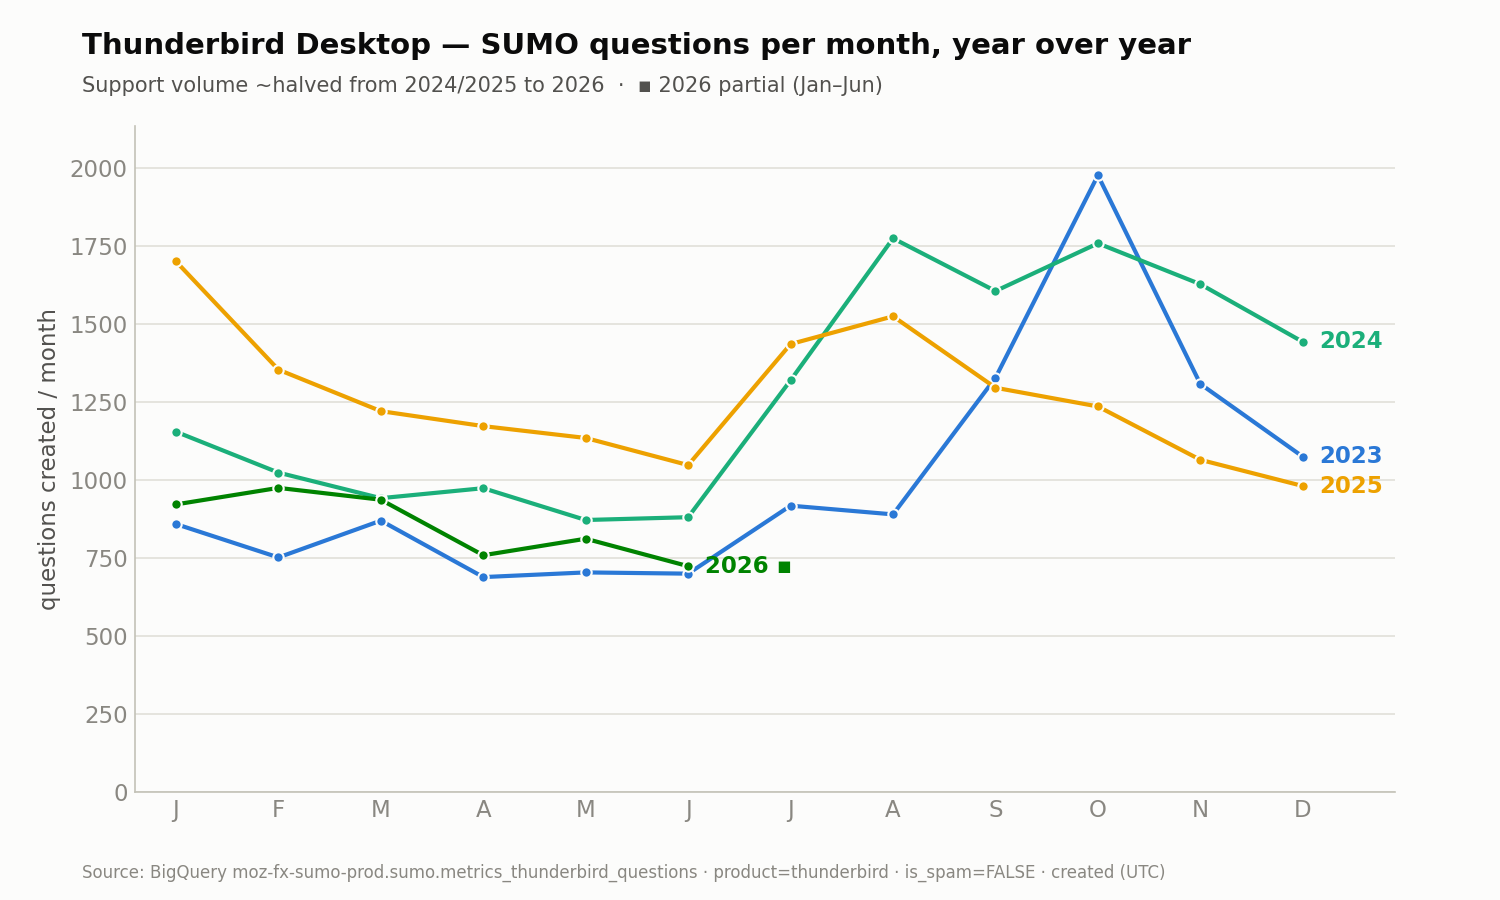
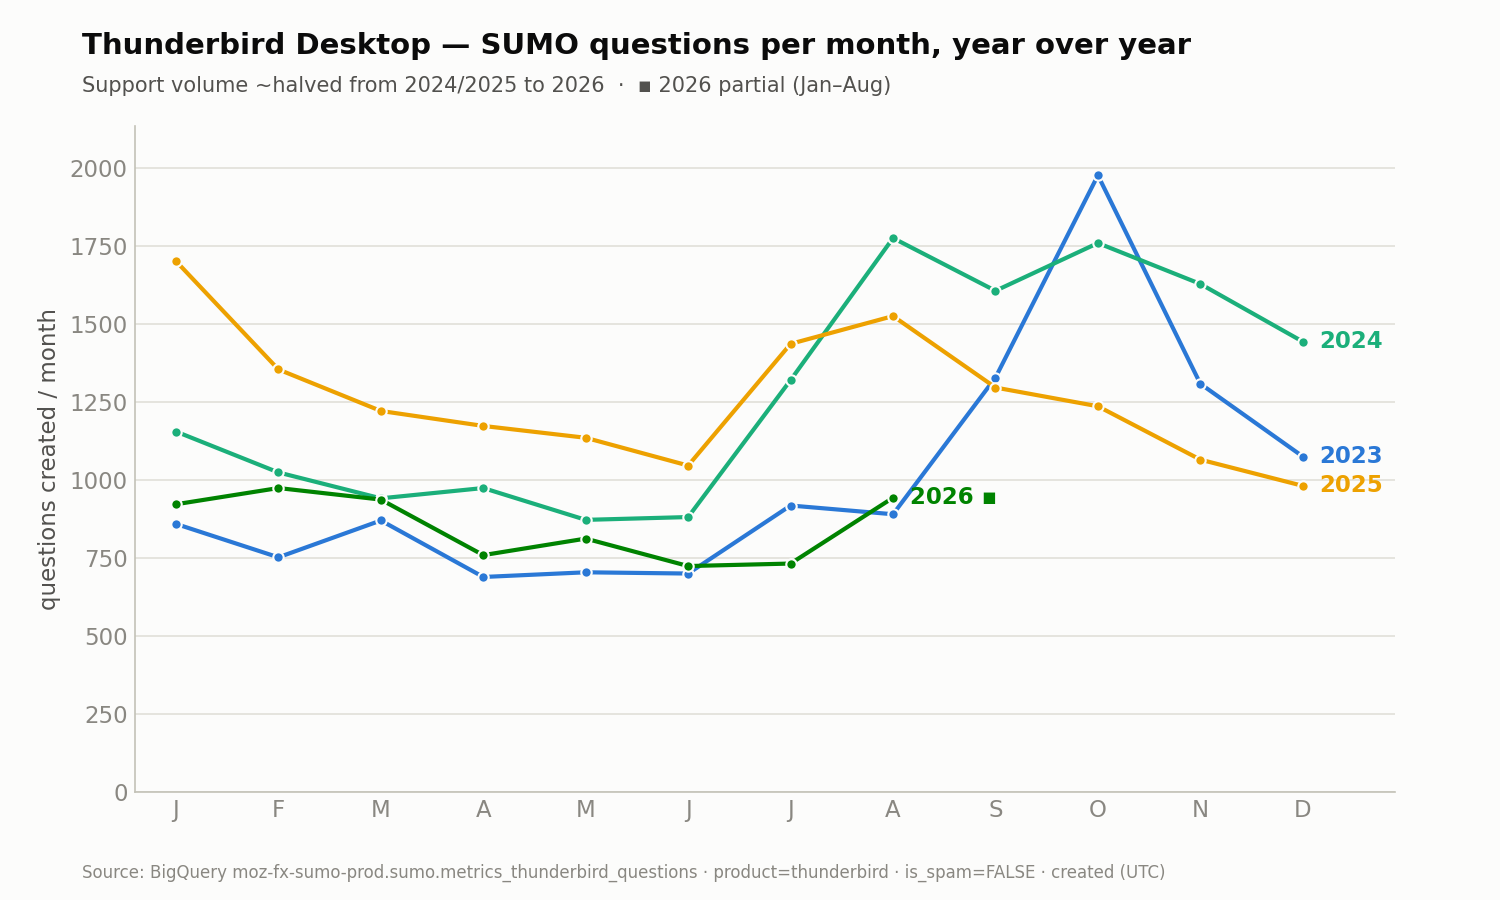
Validation: refresh the BigQuery ground truth through August 2026
The export now covers 44 months. Two things changed.

The corpus matches BigQuery at 100.0% overall, 49,422 here against
49,419 there, and no month diverges by more than 2%. The one historical
gap is closed: 2023-11 reads 1,308 against 1,308, where it used to read
796 of 1,308, because the aaq-scraper backfill (aaq-scraper#19, now
closed) landed.

August 2026 is real: BigQuery 943, this repo 941. That settles the first
open question in the volume-rise analysis, which rested entirely on
scraper counts.

With four years of ground truth the calendar effect is measurable for
the first time. Detrended against a centred 12-month mean, June is the
floor (0.76) and August to October the peak (1.16, 1.19, 1.41). The
July-to-August step is 1.18x in a normal year, so August 2026 was
expected at 860 and came in at 943: about 128 of the +211 is the
calendar and about 83 is genuine excess. The named clusters (+96) then
cover more than all of the excess, so the "54% unexplained residual" was
mostly seasonal. Written up in the analysis with the cautions: the index
rests on three Augusts and 2023 does not fit it.

Tables posted to #67 and #80. The chart is regenerated through August
and now derives its "partial" subtitle from the data.

diff --git a/scripts/project1_volume_yoy_chart.py b/scripts/project1_volume_yoy_chart.py
@@ -17,7 +17,7 @@ import matplotlib
 matplotlib.use("Agg")
 import matplotlib.pyplot as plt
 
-CSV = "PROJECT1/validation/bq-desktop-questions-by-month-2023-01_2026-07.csv"
+CSV = "PROJECT1/validation/bq-desktop-questions-by-month-2023-01_2026-08.csv"
 OUT = "PROJECT1/validation/desktop-questions-yoy.png"
 
 # dataviz reference palette — categorical slots 1..4 (fixed order), + ink tokens
@@ -26,8 +26,8 @@ INK, INK2, MUTED = "#0b0b0b", "#52514e", "#898781"
 GRID, AXIS, SURFACE = "#e1e0d9", "#c3c2b7", "#fcfcfb"
 
 # A month is "complete" only if a later month exists in the data (so the current
-# partial month isn't drawn as a cliff). Here: everything through 2026-06.
-LAST_COMPLETE = "2026-06"
+# partial month isn't drawn as a cliff). Here: everything through 2026-08.
+LAST_COMPLETE = "2026-08"
 
 
 def main():
@@ -76,8 +76,11 @@ def main():
     # keeps them from colliding / overflowing the plot.
     fig.text(0.055, 0.965, "Thunderbird Desktop — SUMO questions per month, "
              "year over year", color=INK, fontsize=14, fontweight="bold", va="top")
+    last_year = df[df["year"] == years[-1]]
+    span = (f"{calendar.month_abbr[int(last_year['m'].min())]}–"
+            f"{calendar.month_abbr[int(last_year['m'].max())]}")
     fig.text(0.055, 0.915, "Support volume ~halved from 2024/2025 to 2026  ·  "
-             "▪ 2026 partial (Jan–Jun)", color=INK2, fontsize=10, va="top")
+             f"▪ {years[-1]} partial ({span})", color=INK2, fontsize=10, va="top")
     fig.text(0.055, 0.02, "Source: BigQuery moz-fx-sumo-prod.sumo."
              "metrics_thunderbird_questions · product=thunderbird · is_spam=FALSE "
              "· created (UTC)", color=MUTED, fontsize=8, va="bottom")

diff --git a/PROJECT1/validation/volume-rise-2026-08-analysis.md b/PROJECT1/validation/volume-rise-2026-08-analysis.md
@@ -5,6 +5,21 @@ August 2026 logged **941** desktop questions against July's **731** — **+210
 from the corpus marked as tested and the ones needing external data left open.
 Companion to issue #67 (the long-run volume decline).
 
+## Confirmed in ground truth (2026-09-09)
+
+The BigQuery ground truth now runs through August 2026 and the rise is real:
+
+| Month | BigQuery | This repo | Match |
+|:--|--:|--:|--:|
+| 2026-05 | 812 | 812 | 100.0% |
+| 2026-06 | 724 | 725 | 100.1% |
+| 2026-07 | 732 | 731 | 99.9% |
+| **2026-08** | **943** | **941** | **99.8%** |
+
+Across all 44 months the two agree to 100.0% (49,419 against 49,422), and the old
+2023-11 scraper gap is closed. So the +29% is not a scraper artefact. See
+`README.md` in this directory.
+
 ## First: it is not an "August bump"
 
 Framing it as one month misses the shape. Per-day rates (month-length neutral):
@@ -97,14 +112,39 @@ to 54%.
 | SUMO-funnel or scraper-wide change | **Rejected** | **Android went the other way: −11% Jul→Aug** while desktop went +29%. A funnel or scraper cause would hit both. (Caveat: android is only ~2/day, so its noise is wide.) |
 | v154 caused it | **Partly — a third at most** | The changepoint is wk Aug 3; Aug 1–17 already ran 1.16× July before v154 shipped. v154 does coincide with the steeper second half (1.44×). |
 | The crash rise is a v154 regression | **Rejected — and the rise itself is mostly an artefact** | Cohort rates over the SUMO crash/perf topics, Aug 18–Sep 9: v154 7.1%, v153 5.5%, v155 6.3%, **v140 10.2%**, unknown 10.7% — no version specificity (contrast printing: v154 13.4% vs v153 0.0%). And title-verified crashes only rose +10 (2.5% → 3.0%), within normal oscillation. See the provenance note above. |
-| Seasonality (Jul→Aug is normally up) | **Weak / inconsistent** | 2023: −3%. **2024: +34%.** 2025: +6%. 2026: +29%. August *can* jump, but two of three prior years did not. |
+| Seasonality (Jul→Aug is normally up) | **CONFIRMED, and it is most of the rise** | Raw ratios read as inconsistent (2023 −3%, 2024 +34%, 2025 +6%, 2026 +29%), but raw ratios mix the seasonal step with the year's trend. Detrended against a centred 12-month mean, August is a high month every year. See the section below. |
+
+## Seasonality explains about 60% of the rise
+
+Dividing each month by a centred 12-month mean removes the decline and leaves the
+calendar effect. Averaged over 2023–2026 (BigQuery):
+
+| Month | J | F | M | A | M | J | J | A | S | O | N | D |
+|:--|--:|--:|--:|--:|--:|--:|--:|--:|--:|--:|--:|--:|
+| Index | 1.03 | 0.94 | 0.93 | 0.81 | 0.80 | 0.76 | 0.98 | 1.16 | 1.19 | 1.41 | 1.11 | 0.97 |
+
+June is the floor of the year and August, September and October are the peak.
+The seasonal step from July to August is 1.16 / 0.98 = **1.18×**.
+
+Applied to July 2026 (732 questions), the expected August is **860**. The actual
+is 943, which is **1.10× the seasonal expectation, or +83 questions**. So of the
++211 rise, roughly **128 is the normal August step and 83 is genuine excess**.
+
+That reframes the decomposition above. The named clusters (printing +32, Spectrum
++29, Yahoo Mail +25, crashes +10, union **+96**) do not cover half of +211; they
+cover **more than all of the +83 excess**. The residual is largely the calendar.
+
+Two cautions. The index rests on three Augusts, and 2023 does not fit it (index
+0.86, the year Supernova pushed the peak to October). And September and October
+are seasonally higher still, so the September run rate of 36.3/day is what the
+calendar predicts, not evidence that the rise is accelerating.
 
 ## Hypotheses that need EXTERNAL data (cannot be settled from the corpus)
 
-1. **Is the rise real in ground truth?** Cross-check August and September against
-   BigQuery using the #67 method (`PROJECT1/validation/bq-desktop-questions-by-month.sql`).
-   This is the cheapest decisive check and should come first — the whole analysis
-   rests on scraper counts.
+1. ~~**Is the rise real in ground truth?**~~ **SETTLED 2026-09-09: yes.** BigQuery
+   gives 943 for August against this repo's 941, and all 44 months agree to 100.0%.
+   September is not in the export yet, so the 36.3/day run rate is still
+   scraper-only.
 2. **Did SUMO change the ask-a-question funnel in early August?** A more prominent
    AAQ entry point, a changed help-article CTA, or a support-routing change would
    raise *every* topic at once — which is exactly the residual's signature.

diff --git a/PROJECT1/validation/README.md b/PROJECT1/validation/README.md
@@ -12,29 +12,33 @@ backfill surfaced a sustained volume decline (issue **#67**, discovered in #65).
 
 ## Verdict: the decline is REAL
 
-BigQuery matches this repo's Project 1 feature counts **exactly for 41 of 43
-months (0.0% divergence)**; overall gap **1.0%**, essentially one month. The
-2025→2026 halving is present in the authoritative SUMO data — **not a scraper
-artifact**. So the spike-report trend lines can show it without an asterisk.
+BigQuery matches this repo's Project 1 feature counts across **all 44 months
+(2023-01 → 2026-08)**: 49,422 questions here against 49,419 in BigQuery, **100.0%**,
+and **no month diverges by more than 2%**. The 2025→2026 halving is present in the
+authoritative SUMO data — **not a scraper artifact**. So the spike-report trend
+lines can show it without an asterisk.
 
-- Monthly: **1,436 (Jul 2025) → 724 (Jun 2026)**.
-- Yearly (BQ): 2023 ≈ 12.1k, **2024 ≈ 15.4k, 2025 ≈ 15.2k, 2026 ≈ 5.2k** (partial,
-  through ~Jul 4 → ~9–10k annualized).
+- Monthly: **1,436 (Jul 2025) → 732 (Jul 2026)**, the low point so far.
+- Yearly (BQ): 2023 ≈ 12.1k, **2024 ≈ 15.4k, 2025 ≈ 15.2k, 2026 ≈ 6.8k** (through
+  August → ~10.2k annualized).
+- Every month of 2026 is down year over year, by 23% to 49%.
 - The open *why* question (release stability vs support moving to Connect / Matrix
   / Reddit) is a product/support-strategy investigation, tracked in #67.
 
-### Only two divergences (neither undermines the verdict)
-- **2023-11** — aaq-scraper coverage gap: captured only **17 of 30 days**
-  (BQ 1,308 vs 796). This is the entire 1.0% overall gap. Optional: re-scrape the
-  13 missing days to make history perfectly clean.
-- **2026-07** — partial-month timing (BQ export ran mid-day Jul 4); negligible.
+### The one historical gap is CLOSED (refresh of 2026-09-09)
+- **2023-11** used to be the single divergence: the aaq-scraper had captured only
+  17 of 30 days (BQ 1,308 vs 796). It now reads **1,308 against 1,308**. The
+  scraper backfill (aaq-scraper#19) landed, and history is clean end to end.
+- The earlier 2026-07 divergence was partial-month timing in the old export and
+  is gone as well: BQ 732, this repo 731.
 
 ## Files
 - `bq-desktop-questions-by-month.sql` — the BigQuery query (no API access → run in
   the console, export CSV). Filters: `product = 'thunderbird'` (desktop),
   `is_spam = FALSE`, `COUNT(DISTINCT question_id)`, UTC-month bucket.
-- `bq-desktop-questions-by-month-2023-01_2026-07.csv` — the exported ground-truth
-  counts (run 2026-07-04).
+- `bq-desktop-questions-by-month-2023-01_2026-08.csv` — the exported ground-truth
+  counts (refreshed 2026-09-09; the earlier `..._2023-01_2026-07.csv` export of
+  2026-07-04 was replaced, and it is in git history).
 - `desktop-questions-yoy.png` — year-over-year chart (one line/year), generated by
   `scripts/project1_volume_yoy_chart.py`.
 
